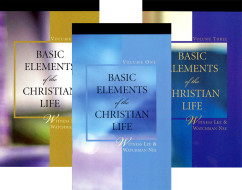
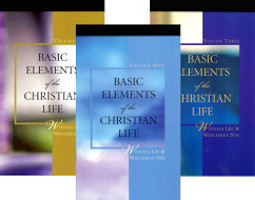
-Add new item images and resize them so they're all the same height. -Add image-picker js widget to display item images on the order page and make them selectable -Add relationship between items and orders and save items when creating an order.

diff --git a/vendor/assets/javascripts/image-picker.min.js b/vendor/assets/javascripts/image-picker.min.js
@@ -1,0 +1,7 @@
+// Image Picker
+// by Rodrigo Vera
+//
+// Version 0.2.4
+// Full source at https://github.com/rvera/image-picker
+// MIT License, https://github.com/rvera/image-picker/blob/master/LICENSE
+(function(){var t,e,i,s,l=function(t,e){return function(){return t.apply(e,arguments)}},n=[].indexOf||function(t){for(var e=0,i=this.length;i>e;e++)if(e in this&&this[e]===t)return e;return-1};jQuery.fn.extend({imagepicker:function(e){return null==e&&(e={}),this.each(function(){var i;return i=jQuery(this),i.data("picker")&&i.data("picker").destroy(),i.data("picker",new t(this,s(e))),null!=e.initialized?e.initialized.call(i.data("picker")):void 0})}}),s=function(t){var e;return e={hide_select:!0,show_label:!1,initialized:void 0,changed:void 0,clicked:void 0,selected:void 0,limit:void 0,limit_reached:void 0},jQuery.extend(e,t)},i=function(t,e){return 0===jQuery(t).not(e).length&&0===jQuery(e).not(t).length},t=function(){function t(t,e){this.opts=null!=e?e:{},this.sync_picker_with_select=l(this.sync_picker_with_select,this),this.select=jQuery(t),this.multiple="multiple"===this.select.attr("multiple"),null!=this.select.data("limit")&&(this.opts.limit=parseInt(this.select.data("limit"))),this.build_and_append_picker()}return t.prototype.destroy=function(){var t,e,i,s;for(s=this.picker_options,e=0,i=s.length;i>e;e++)t=s[e],t.destroy();return this.picker.remove(),this.select.unbind("change"),this.select.removeData("picker"),this.select.show()},t.prototype.build_and_append_picker=function(){var t=this;return this.opts.hide_select&&this.select.hide(),this.select.change(function(){return t.sync_picker_with_select()}),null!=this.picker&&this.picker.remove(),this.create_picker(),this.select.after(this.picker),this.sync_picker_with_select()},t.prototype.sync_picker_with_select=function(){var t,e,i,s,l;for(s=this.picker_options,l=[],e=0,i=s.length;i>e;e++)t=s[e],t.is_selected()?l.push(t.mark_as_selected()):l.push(t.unmark_as_selected());return l},t.prototype.create_picker=function(){return this.picker=jQuery("<ul class='thumbnails image_picker_selector'></ul>"),this.picker_options=[],this.recursively_parse_option_groups(this.select,this.picker),this.picker},t.prototype.recursively_parse_option_groups=function(t,i){var s,l,n,r,c,o,h,a,p,u;for(a=t.children("optgroup"),r=0,o=a.length;o>r;r++)n=a[r],n=jQuery(n),s=jQuery("<ul></ul>"),s.append(jQuery("<li class='group_title'>"+n.attr("label")+"</li>")),i.append(jQuery("<li>").append(s)),this.recursively_parse_option_groups(n,s);for(p=function(){var i,s,n,r;for(n=t.children("option"),r=[],i=0,s=n.length;s>i;i++)l=n[i],r.push(new e(l,this,this.opts));return r}.call(this),u=[],c=0,h=p.length;h>c;c++)l=p[c],this.picker_options.push(l),l.has_image()&&u.push(i.append(l.node));return u},t.prototype.has_implicit_blanks=function(){var t;return function(){var e,i,s,l;for(s=this.picker_options,l=[],e=0,i=s.length;i>e;e++)t=s[e],t.is_blank()&&!t.has_image()&&l.push(t);return l}.call(this).length>0},t.prototype.selected_values=function(){return this.multiple?this.select.val()||[]:[this.select.val()]},t.prototype.toggle=function(t){var e,s,l;return s=this.selected_values(),l=""+t.value(),this.multiple?n.call(this.selected_values(),l)>=0?(e=this.selected_values(),e.splice(jQuery.inArray(l,s),1),this.select.val([]),this.select.val(e)):null!=this.opts.limit&&this.selected_values().length>=this.opts.limit?null!=this.opts.limit_reached&&this.opts.limit_reached.call(this.select):this.select.val(this.selected_values().concat(l)):this.has_implicit_blanks()&&t.is_selected()?this.select.val(""):this.select.val(l),i(s,this.selected_values())||(this.select.change(),null==this.opts.changed)?void 0:this.opts.changed.call(this.select,s,this.selected_values())},t}(),e=function(){function t(t,e,i){this.picker=e,this.opts=null!=i?i:{},this.clicked=l(this.clicked,this),this.option=jQuery(t),this.create_node()}return t.prototype.destroy=function(){return this.node.find(".thumbnail").unbind()},t.prototype.has_image=function(){return null!=this.option.data("img-src")},t.prototype.is_blank=function(){return!(null!=this.value()&&""!==this.value())},t.prototype.is_selected=function(){var t;return t=this.picker.select.val(),this.picker.multiple?jQuery.inArray(this.value(),t)>=0:this.value()===t},t.prototype.mark_as_selected=function(){return this.node.find(".thumbnail").addClass("selected")},t.prototype.unmark_as_selected=function(){return this.node.find(".thumbnail").removeClass("selected")},t.prototype.value=function(){return this.option.val()},t.prototype.label=function(){return this.option.data("img-label")?this.option.data("img-label"):this.option.text()},t.prototype.clicked=function(){return this.picker.toggle(this),null!=this.opts.clicked&&this.opts.clicked.call(this.picker.select,this),null!=this.opts.selected&&this.is_selected()?this.opts.selected.call(this.picker.select,this):void 0},t.prototype.create_node=function(){var t,e;return this.node=jQuery("<li/>"),t=jQuery("<img class='image_picker_image'/>"),t.attr("src",this.option.data("img-src")),e=jQuery("<div class='thumbnail'>"),e.click({option:this},function(t){return t.data.option.clicked()}),e.append(t),this.opts.show_label&&e.append(jQuery("<p/>").html(this.label())),this.node.append(e),this.node},t}()}).call(this);

diff --git a/vendor/assets/stylesheets/image-picker.css b/vendor/assets/stylesheets/image-picker.css
@@ -1,0 +1,29 @@
+ul.thumbnails.image_picker_selector {
+  overflow: auto;
+  list-style-image: none;
+  list-style-position: outside;
+  list-style-type: none;
+  padding: 0px;
+  margin: 0px; }
+  ul.thumbnails.image_picker_selector ul {
+    overflow: auto;
+    list-style-image: none;
+    list-style-position: outside;
+    list-style-type: none;
+    padding: 0px;
+    margin: 0px; }
+  ul.thumbnails.image_picker_selector li.group_title {
+    float: none; }
+  ul.thumbnails.image_picker_selector li {
+    margin: 0px 12px 12px 0px;
+    float: left; }
+    ul.thumbnails.image_picker_selector li .thumbnail {
+      padding: 6px;
+      border: 1px solid #dddddd;
+      -webkit-user-select: none;
+      -moz-user-select: none;
+      -ms-user-select: none; }
+      ul.thumbnails.image_picker_selector li .thumbnail img {
+        -webkit-user-drag: none; }
+    ul.thumbnails.image_picker_selector li .thumbnail.selected {
+      background: #0088cc; }

diff --git a/app/assets/stylesheets/application.css.scss b/app/assets/stylesheets/application.css.scss
@@ -10,6 +10,7 @@
  * defined in the other CSS/SCSS files in this directory. It is generally better to create a new
  * file per style scope.
  *
+ *= require image-picker
  *= require_tree .
  *= require_self
  */

diff --git a/app/assets/javascripts/application.js b/app/assets/javascripts/application.js
@@ -12,4 +12,5 @@
 //
 //= require jquery
 //= require jquery_ujs
+//= require image-picker.min
 //= require_tree .

diff --git a/db/seeds.rb b/db/seeds.rb
@@ -2,6 +2,12 @@
 # The data can then be loaded with the rake db:seed (or created alongside the db with db:setup).
 #
 
+
+if Rails.env.development?
+  TerritorialAuthority.destroy_all
+  Item.destroy_all
+end
+
 [
  ["001","Far North District", :far_north],
  ["002","Whangarei District", :whangarei],
@@ -74,12 +80,12 @@
 end
 
 [
- ['R', "The New Testament Recovery Version", nil, "new_testament.jpg", "The New Testament Recovery Version is a comprehensive study Bible accurately translated from the original Greek text into modern English. It features extensive notes emphasizing the revelation of the truth, outlines of each book, cross-references, charts and maps, and more."],
- ['A', "The All Inclusive Christ", "Witness Lee", "all_inclusive_christ.jpg", "Lee shows that the good land in all its aspects is actually a type of Christ in His all-inclusiveness. In this book, the riches of the good land are explained and applied to our experience of Christ today."],
- ['G', "The Glorious Church", "Watchman Nee", "glorious_church.jpg", "What is the the church and what is its purpose? Watchman Nee uses types of the church from throughout the Bible to show us the church's origin, purpose, and destiny."],
+ ['R', "The New Testament Recovery Version", nil, "the_new_testament.jpg", "The New Testament Recovery Version is a comprehensive study Bible accurately translated from the original Greek text into modern English. It features extensive notes emphasizing the revelation of the truth, outlines of each book, cross-references, charts and maps, and more."],
+ ['A', "The All Inclusive Christ", "Witness Lee", "the_all_inclusive_christ.jpg", "Lee shows that the good land in all its aspects is actually a type of Christ in His all-inclusiveness. In this book, the riches of the good land are explained and applied to our experience of Christ today."],
+ ['G', "The Glorious Church", "Watchman Nee", "the_glorious_church.jpg", "What is the the church and what is its purpose? Watchman Nee uses types of the church from throughout the Bible to show us the church's origin, purpose, and destiny."],
  ['B', "Basic Elements of the Christian Life", "Watchman Nee and Witness Lee", "basic_elements.jpg", "This series details the basic yet crucial elements of the life of a Christian, showing how each provides the foundation for a rich and meaningful Christian life."],
-# ['E', "The Economoy of God", "economy_of_god", "TODO"],
-# ['K', "The Knowledge of Life", "knowledge_of_life", "TODO"]
+['E', "The Economoy of God", "Witness Lee", "the_economy_of_god.jpg", "TODO"],
+['K', "The Knowledge of Life", "Witness Lee", "the_knowledge_of_life.jpg", "TODO"]
 ].each do |code, title, author, image_path, description|
    Item.create!(code: code, title: title, author: author, image_path: image_path, description: description) unless Item.find_by_code(code)
  end

diff --git a/app/services/create_order_service.rb b/app/services/create_order_service.rb
@@ -1,6 +1,7 @@
 class CreateOrderService
-  def initialize(controller)
-    @controller = controller
+  def initialize(request, params)
+    @request = request
+    @params = params
   end
 
   def save
@@ -14,10 +15,10 @@ class CreateOrderService
   private
 
   def order_params
-    @controller.params.require(:order).permit(:title, :first_name, :last_name, :address, :suburb, :city_town, :post_code, :pxid, :ta, :phone, :email, :tertiary_student, :tertiary_institution)
+    @params.require(:order).permit(:title, :first_name, :last_name, :address, :suburb, :city_town, :post_code, :pxid, :ta, :phone, :email, :tertiary_student, :tertiary_institution, :item_ids => [])
   end
 
   def ip_address
-    @controller.request.remote_ip
+    @request.remote_ip
   end
 end

diff --git a/app/models/order.rb b/app/models/order.rb
@@ -1,8 +1,11 @@
 class Order < ActiveRecord::Base
+  has_and_belongs_to_many :items
+
   enum method_of_discovery: [:unknown, :uni_lit, :non_uni_lit, :other_ad, :word_of_mouth, :website]
   enum method_received: [:mail, :phone, :personally_delivered, :internet, :other]
 
   validates :title, :first_name, :last_name, :address, presence: true
+  validate :contains_at_least_one_item
 
   def ta=(ta)
     super ta.gsub(/district|city/, "").strip
@@ -10,5 +13,11 @@ class Order < ActiveRecord::Base
 
   def territorial_authority
     @territorial_authority ||= TerritorialAuthority.find_by_addressfinder_name(ta)
+  end
+
+  private
+
+  def contains_at_least_one_item
+    errors.add(:item_ids, "must be selected") if item_ids.none?
   end
 end

diff --git a/db/schema.rb b/db/schema.rb
@@ -11,7 +11,7 @@
 #
 # It's strongly recommended that you check this file into your version control system.
 
-ActiveRecord::Schema.define(version: 20140812093843) do
+ActiveRecord::Schema.define(version: 20140819101747) do
 
   # These are extensions that must be enabled in order to support this database
   enable_extension "plpgsql"
@@ -25,6 +25,11 @@ ActiveRecord::Schema.define(version: 20140812093843) do
     t.datetime "deactivated_at"
     t.datetime "created_at"
     t.datetime "updated_at"
+  end
+
+  create_table "items_orders", id: false, force: true do |t|
+    t.integer "item_id"
+    t.integer "order_id"
   end
 
   create_table "orders", force: true do |t|

diff --git a/app/controllers/orders_controller.rb b/app/controllers/orders_controller.rb
@@ -5,11 +5,12 @@ class OrdersController < ApplicationController
   end
 
   def create
-    order_service = CreateOrderService.new(self)
+    order_service = CreateOrderService.new(request, params)
     if order_service.save
       redirect_to root_path, notice: "Thanks, your order will be shipped as soon as possible"
     else
       @order = order_service.order
+      @items = Item.active
       render :new
     end
   end

diff --git a/spec/features/place_order_spec.rb b/spec/features/place_order_spec.rb
@@ -13,6 +13,7 @@ feature 'Placing an order', js: true do
     fill_in "Email", with: "email@test.com"
     check "Are you a tertiary student?"
     fill_in "Tertiary institution", with: "AUT"
+    page.first(".image_picker_image").click
     click_button "Order"
     expect(page).to have_text("your order will be shipped as soon as possible")
   end

diff --git a/db/migrate/20140819101747_create_items_orders.rb b/db/migrate/20140819101747_create_items_orders.rb
@@ -1,0 +1,8 @@
+class CreateItemsOrders < ActiveRecord::Migration
+  def change
+    create_table :items_orders, id: false do |t|
+      t.belongs_to :item
+      t.belongs_to :order
+    end
+  end
+end

diff --git a/app/models/item.rb b/app/models/item.rb
@@ -1,4 +1,5 @@
 class Item < ActiveRecord::Base
+  has_and_belongs_to_many :orders
 
   validates :title, presence: true
   validates :code, uniqueness: true
